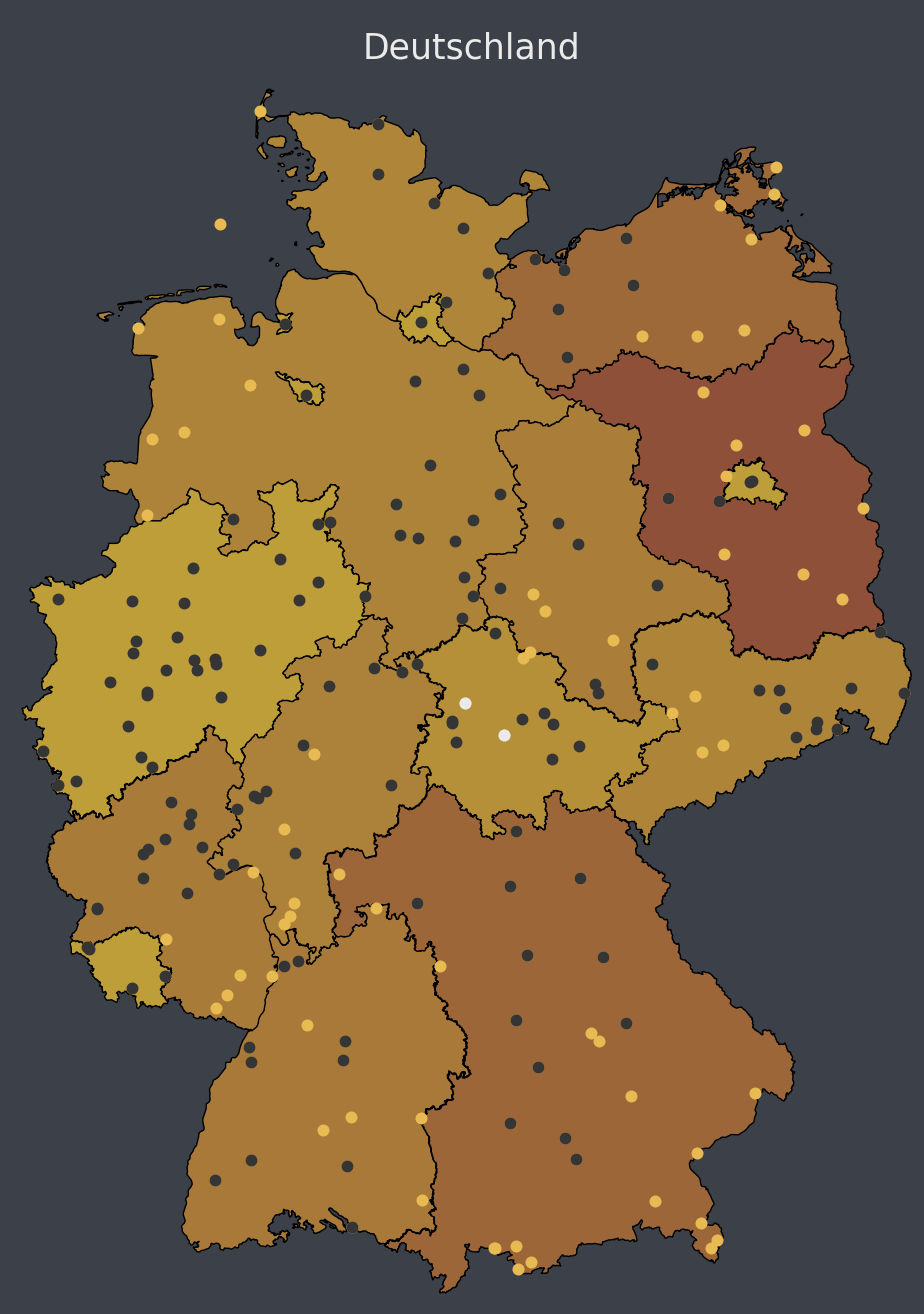
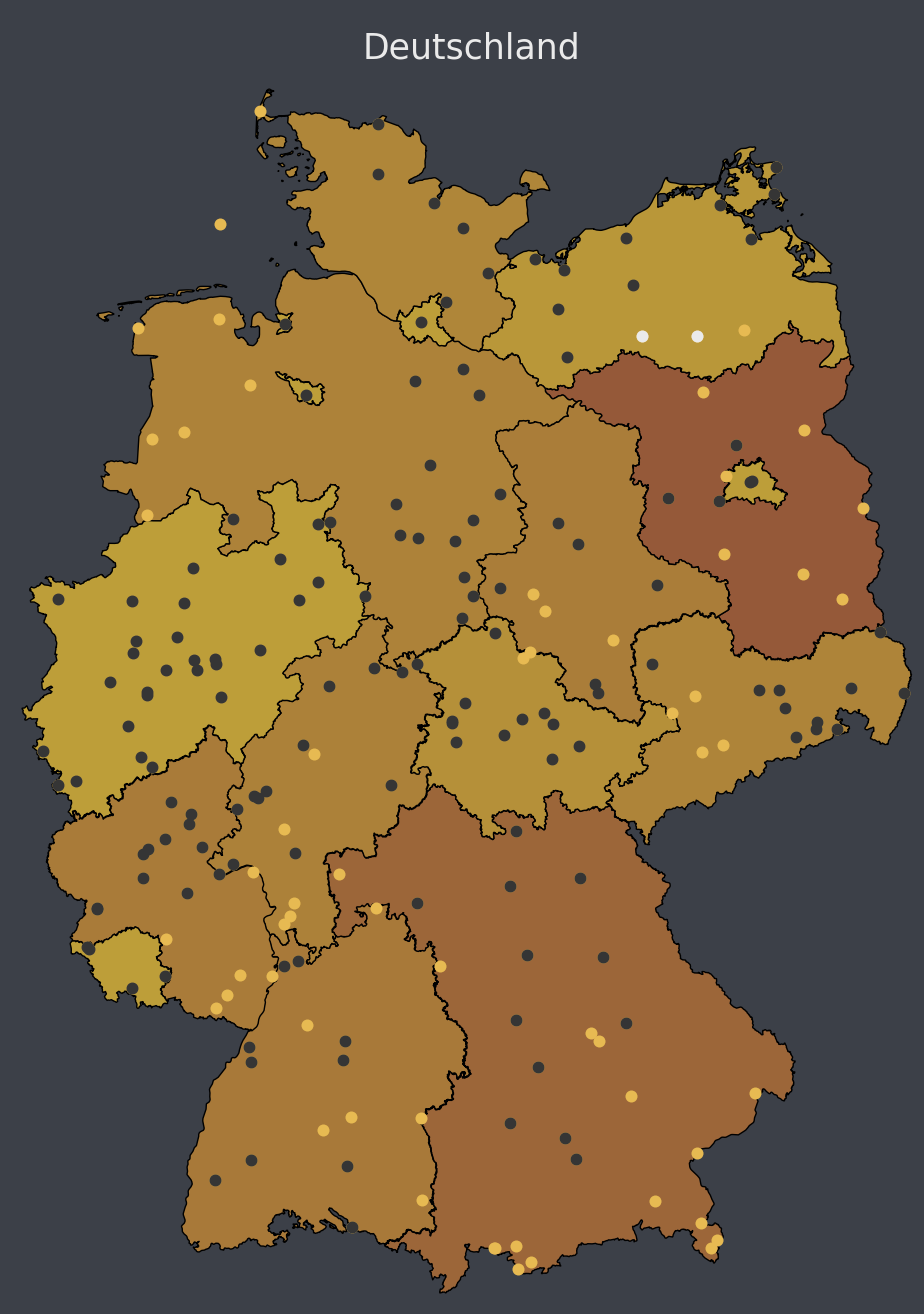
add the dates from begining or NE trip

Changed region(s): [[0.5152, 0.0936, 0.9394, 0.312], [0.7879, 0.312, 0.8182, 0.3432], [0.4848, 0.5304, 0.5152, 0.5616]]

diff --git a/main.py b/main.py
@@ -10,13 +10,13 @@ from utils.file_utils import ensure_directory_exists
 
 
 # Set global variables, directories for map creation and site locations
-SCALE = 3
+SCALE = 1
 
 # US National Park Global Variables
-PATH = "us"
+#PATH = "us"
 
 # Germany Global Variables
-#PATH = "de"
+PATH = "de"
 
 # Europe Global Variables
 #PATH = "eu"
